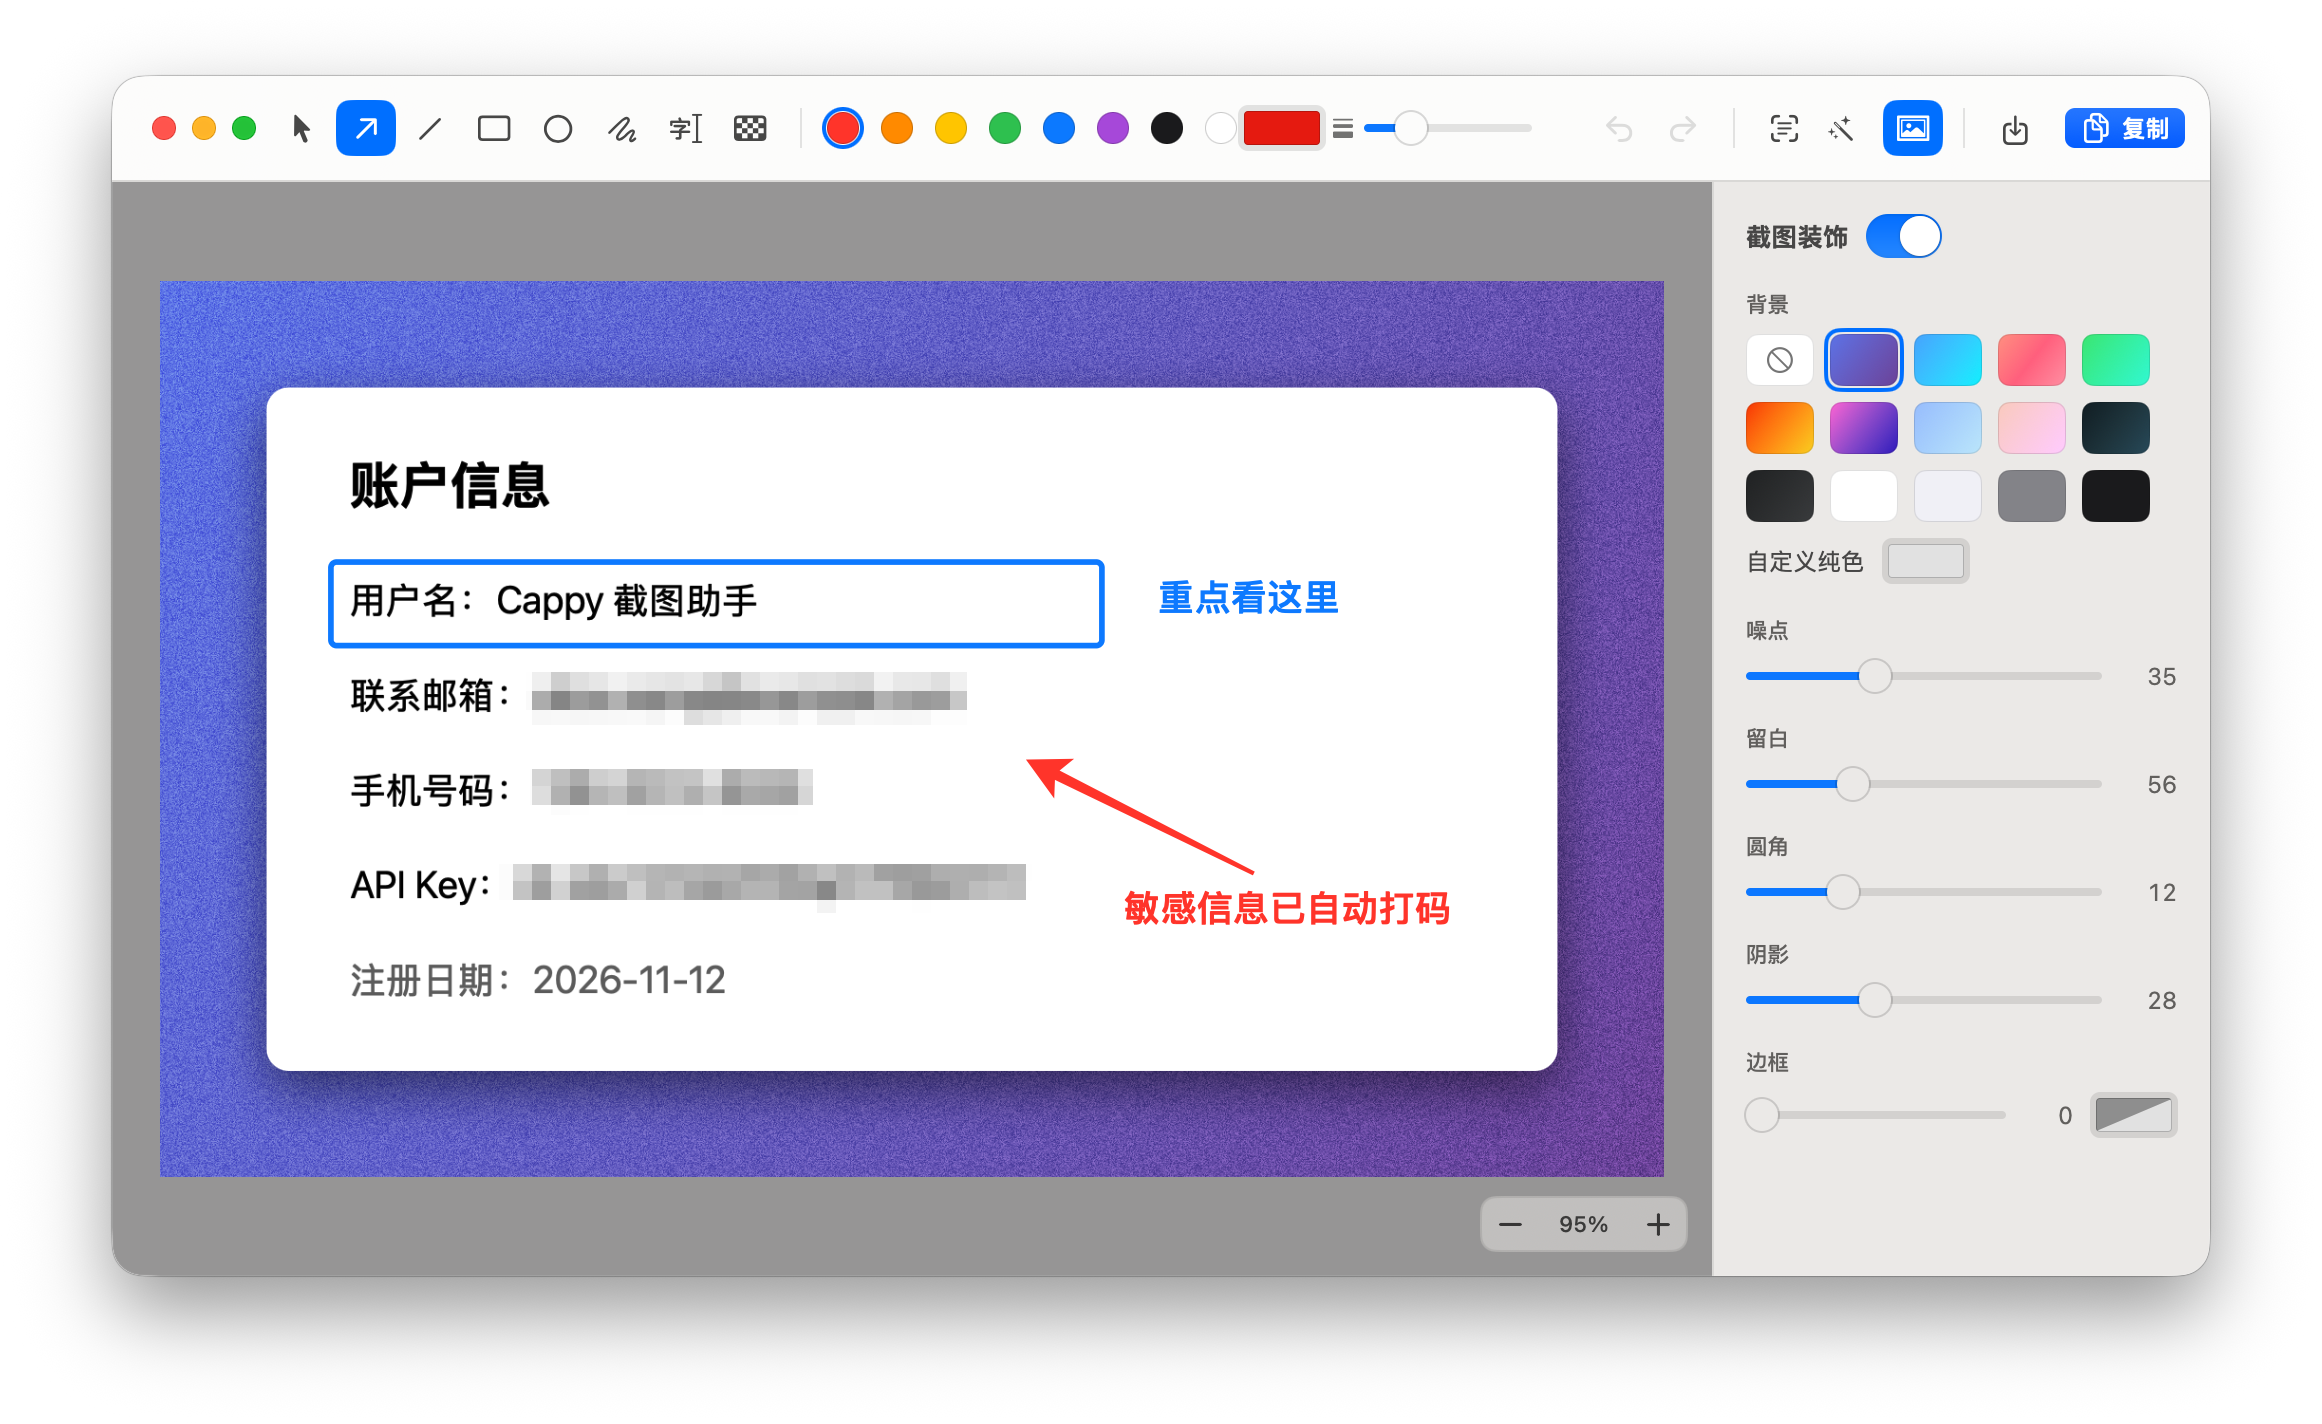
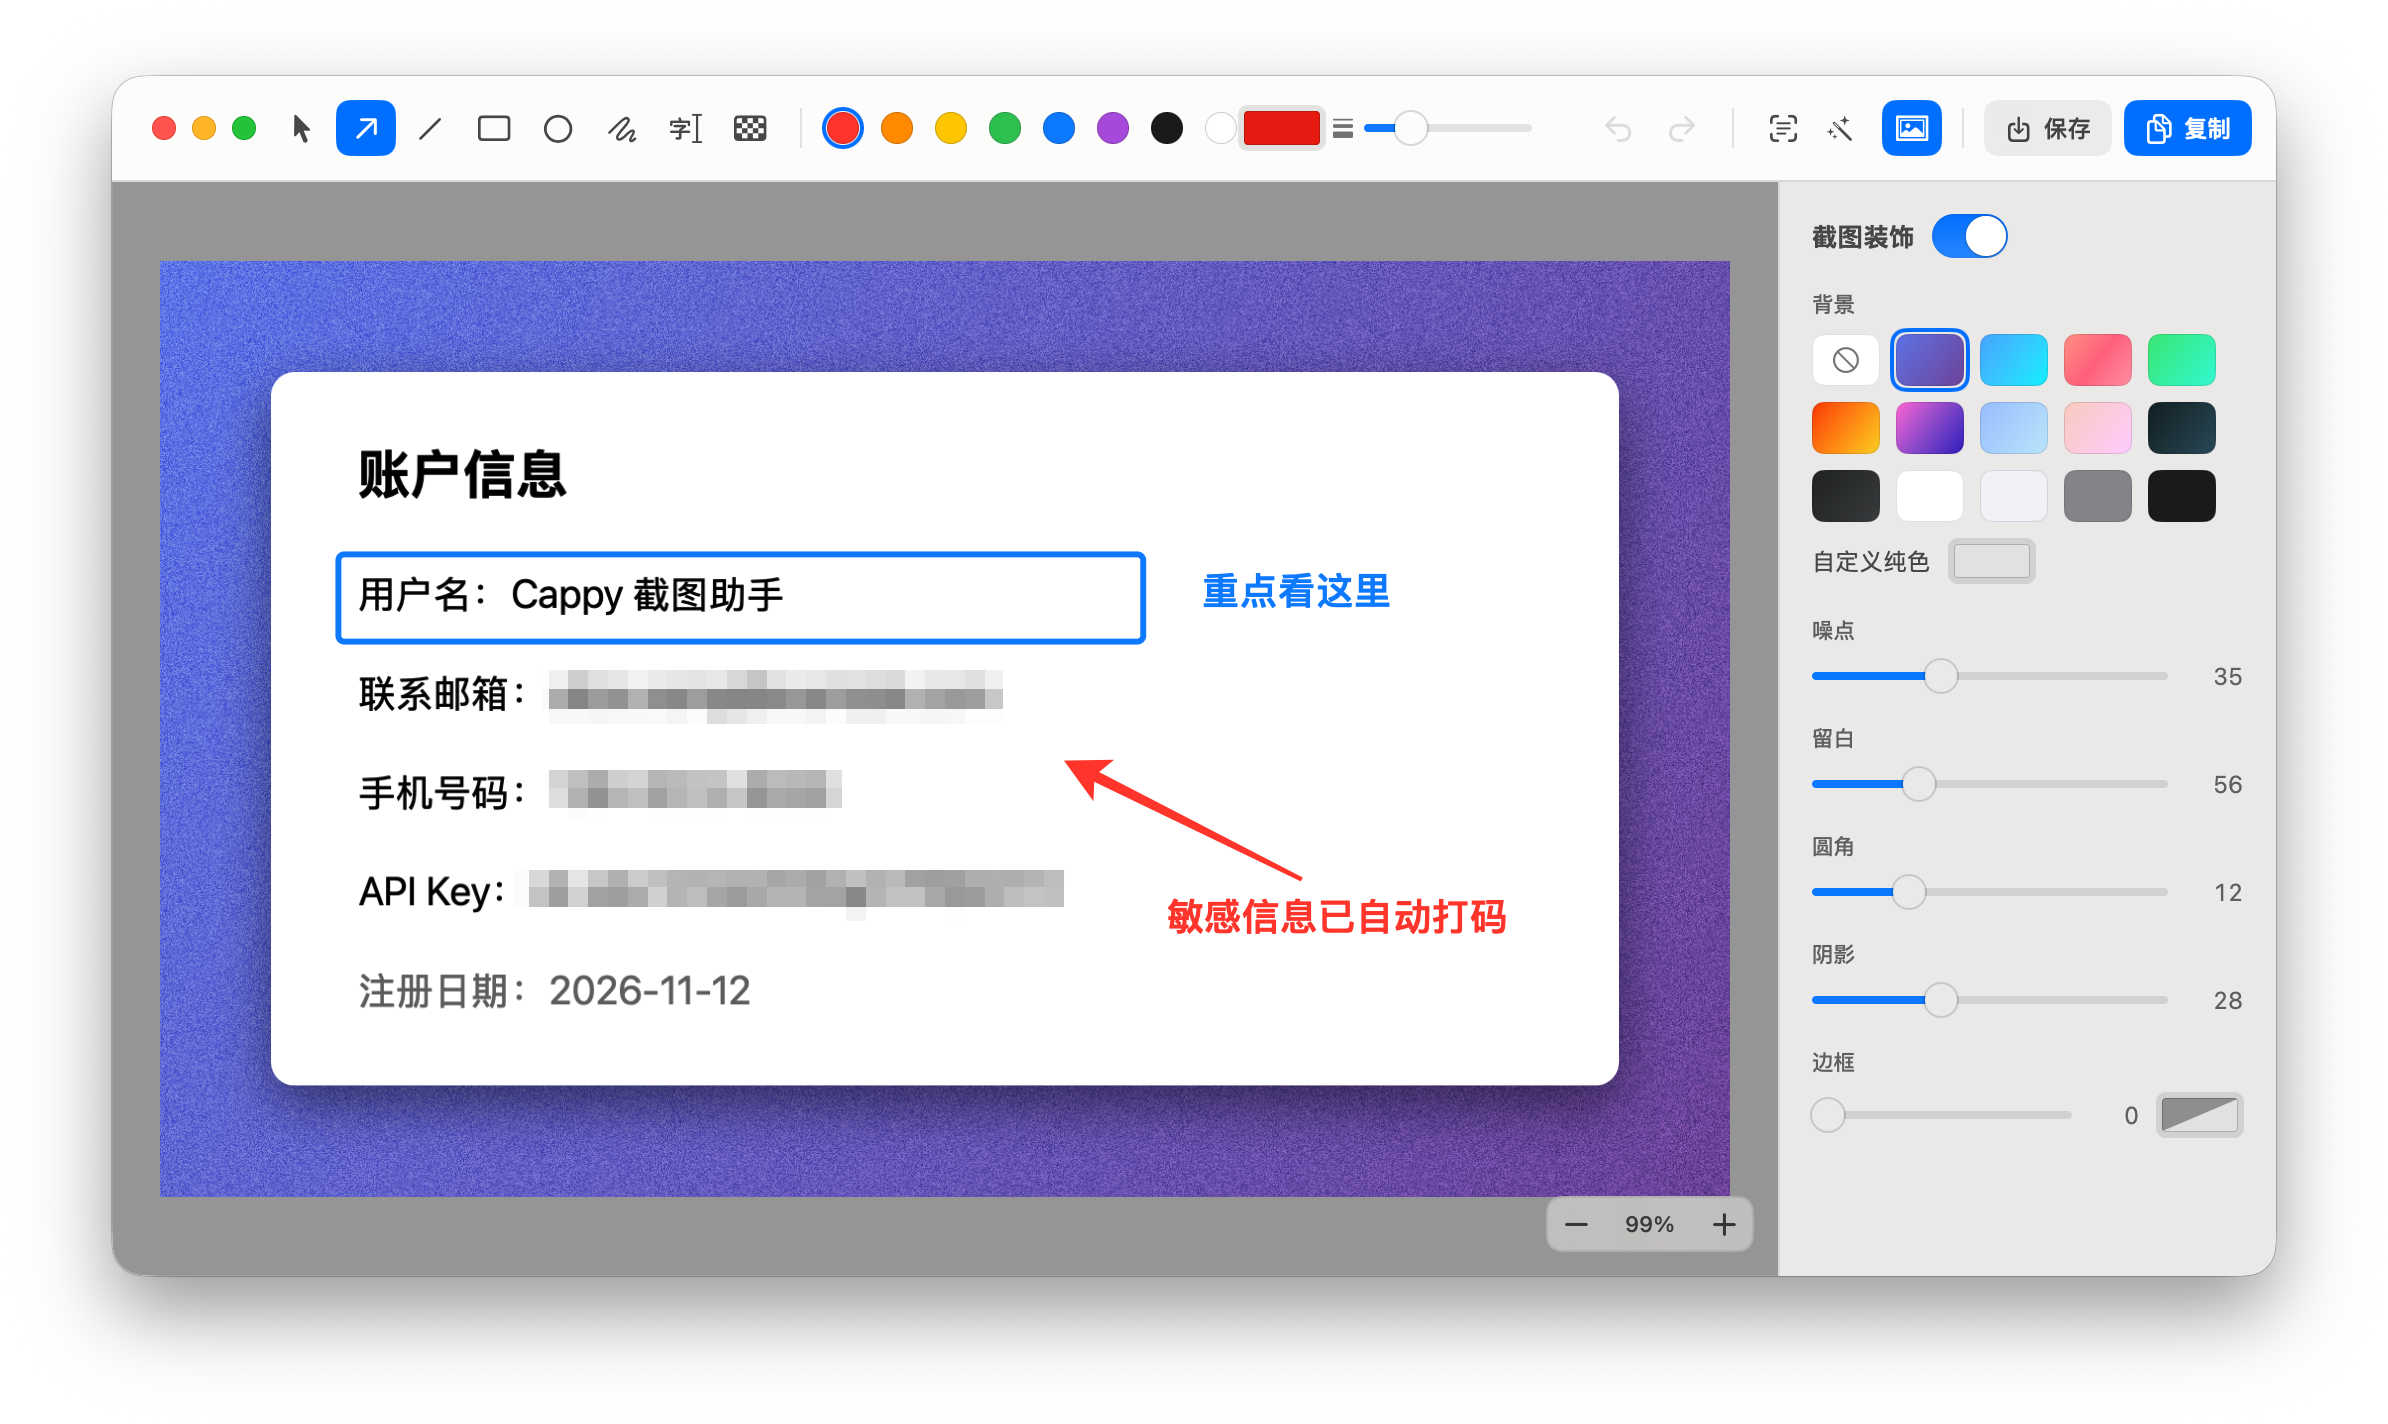
Release 0.0.2
Give the save and copy toolbar buttons the same shape and size.

diff --git a/Sources/Cappy/EditorView.swift b/Sources/Cappy/EditorView.swift
@@ -53,6 +53,41 @@ struct IconButton: View {
     }
 }
 
+/// The two output actions share one shape, height and type size; only the
+/// fill tells the primary action (copy) from the secondary one (save).
+struct ActionButton: View {
+    let title: String
+    let symbol: String
+    let prominent: Bool
+    let help: String
+    let action: () -> Void
+    @State private var hovering = false
+
+    var body: some View {
+        Button(action: action) {
+            HStack(spacing: 5) {
+                Image(systemName: symbol)
+                    .font(.system(size: 12, weight: .semibold))
+                    .frame(width: 15, height: 15)
+                Text(title).font(.system(size: 12, weight: .semibold))
+            }
+            .padding(.horizontal, 10)
+            .frame(height: 28)
+            .foregroundStyle(prominent ? Color.white : Color.primary.opacity(0.85))
+            .background(
+                RoundedRectangle(cornerRadius: 7, style: .continuous)
+                    .fill(prominent ? Color.accentColor.opacity(hovering ? 0.88 : 1)
+                                    : Color.primary.opacity(hovering ? 0.14 : 0.08))
+            )
+            .contentShape(Rectangle())
+        }
+        .buttonStyle(.plain)
+        .fixedSize()
+        .onHover { hovering = $0 }
+        .help(help)
+    }
+}
+
 struct ToolbarView: View {
     @ObservedObject var state: EditorState
 
@@ -147,21 +182,14 @@ struct ToolbarView: View {
 
             separator
 
-            IconButton(symbol: "square.and.arrow.down", help: "保存… (⌘S)") {
-                state.save(from: state.canvas?.window)
-            }
-            Button {
-                state.copyToClipboard()
-            } label: {
-                HStack(spacing: 5) {
-                    Image(systemName: "doc.on.doc")
-                    Text("复制")
+            HStack(spacing: 6) {
+                ActionButton(title: "保存", symbol: "square.and.arrow.down", prominent: false, help: "保存… (⌘S)") {
+                    state.save(from: state.canvas?.window)
                 }
-                .font(.system(size: 12, weight: .semibold))
+                ActionButton(title: "复制", symbol: "doc.on.doc", prominent: true, help: "复制到剪贴板 (⌘C)") {
+                    state.copyToClipboard()
+                }
             }
-            .buttonStyle(.borderedProminent)
-            .fixedSize()
-            .help("复制到剪贴板 (⌘C)")
         }
         .padding(.trailing, 12)
         .frame(height: 52)
